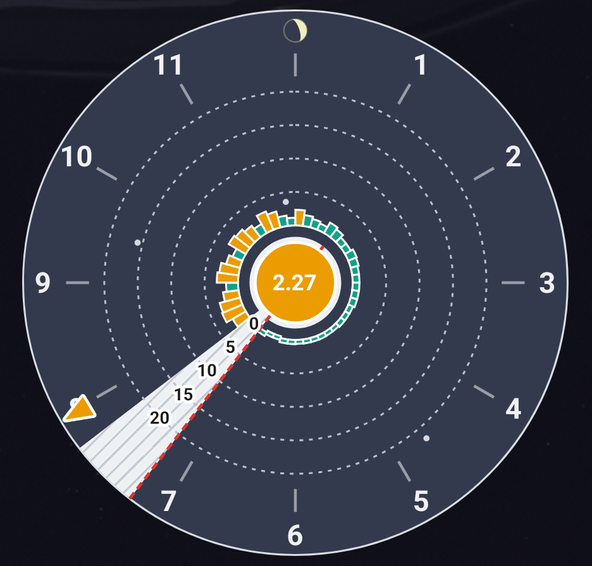
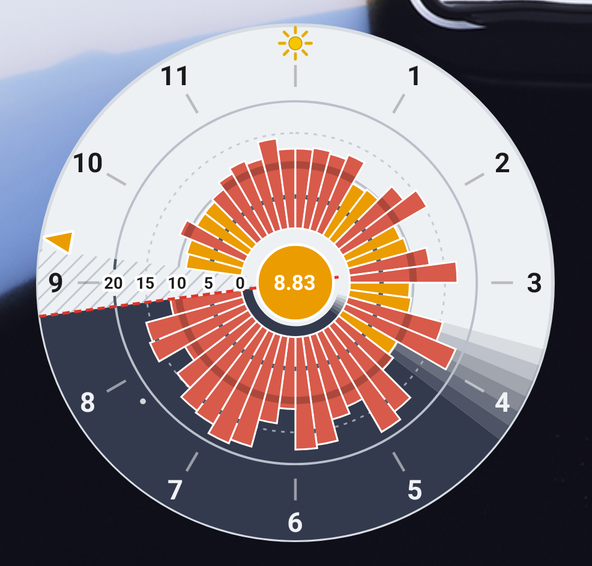
README: 0.15.0 screenshots, normal + very expensive day; reading guide covers hour marks and main rings

diff --git a/README.md b/README.md
@@ -12,9 +12,22 @@ lähdekoodi on erillisessä yksityisessä repossa.
 
 | Korkea widget | Matala widget |
 |---|---|
-| <img src="screenshots/tall.png" width="300" alt="Korkea widget: nykyinen ja kolme seuraavaa varttia kellon yläpuolella, siksak-nuoli kellon keskellä"> | <img src="screenshots/square.png" width="300" alt="Matala widget: nykyinen hinta kellon keskellä"> |
+| <img src="screenshots/tall.png" width="300" alt="Korkea widget tavallisena päivänä: nykyinen ja kolme seuraavaa varttia kellon yläpuolella, siksak-nuoli kellon keskellä, tuntinumerot näkyvissä"> | <img src="screenshots/square.png" width="300" alt="Matala widget tavallisena päivänä: nykyinen hinta kellon keskellä"> |
 
-*Kuvakaappaukset versiosta 0.13.0, 14.11.2026 klo 19.58.*
+*Tavallinen päivä: lauantai 28.11.2026 klo 9.20 (hinnat 7–19 snt).*
+
+**Hyvin kallis päivä** – torstai 26.11.2026, jolloin lähes kaikki vartit
+olivat yli 30 snt:
+
+| Korkea, klo 7.30 | Matala, klo 13.00 |
+|---|---|
+| <img src="screenshots/kallis-korkea.png" width="300" alt="Korkea widget kalliina päivänä: pitkät punaiset palkit hintoineen, tuntinumeroiden tilalla valkoiset tuntimerkit, 10 ja 20 sentin päärenkaat näkyvät palkkien yli"> | <img src="screenshots/kallis-matala.png" width="300" alt="Matala widget kalliina päivänä: tuntimerkit numeroiden tilalla, kuu klo 12 kohdalla, perjantain hinnat vielä julkaisematta"> |
+
+*Palkit peittävät tuntinumerot, joten niiden paikalla on valkoiset
+tuntimerkit. 10 ja 20 sentin päärenkaat erottuvat palkkien yli. Klo 13.00
+perjantain hintoja ei ollut vielä julkaistu (viivoitettu kiila).*
+
+*Kuvakaappaukset versiosta 0.15.0 (Android-emulaattori).*
 
 ## Lataus
 
@@ -91,9 +104,15 @@ ja laskee taas – nuoli kulkee *alas, ylös, alas, alas*. Tunnin lopussa hinta
 - Kello kattaa seuraavat 12 tuntia, ja reunan nuolenkärki näyttää
   nykyhetken – se on täytetty nykyisen vartin hintavärillä.
 - Jokainen palkki on yksi vartti: mitä pidempi palkki, sitä kalliimpi.
-  Katkoviivarenkaat ovat 0, 5, 10, 15 ja 20 snt/kWh. Korkeiden palkkien
-  kohdalla renkaat näkyvät palkkien välisissä raoissa pieninä tummina
-  viivoina.
+  Renkaat ovat 0, 5, 10, 15 ja 20 snt/kWh. **10 ja 20 sentin päärenkaat**
+  ovat yhtenäisiä viivoja, jotka näkyvät tummana varjona myös pitkien
+  palkkien yli ja jatkuvat viivoitetussa kiilassa – niistä näkee
+  yhdellä silmäyksellä, mitkä vartit ylittävät 10 tai 20 senttiä. Muut
+  renkaat ovat katkoviivoja.
+- **Tuntimerkit:** kun pitkät palkit peittävät tuntinumeron (noin 29 snt
+  ja yli), numeron tilalle tulee valkoinen pyöreäpäinen merkki – kuin
+  numeroton kellotaulu. Tunnit päätellään merkkien paikoista (12 ylhäällä,
+  3 oikealla jne.). Tavallisena päivänä numerot näkyvät kuten ennenkin.
 - Vähintään 30 snt/kWh:n palkkiin on kirjoitettu hinta kokonaisina sentteinä
   (paitsi nykyiseen varttiin, jonka päällä osoitin on – sen hinta näkyy
   hintarivissä tai kellon keskellä). Hyvin kalliina päivinä kello pienenee
@@ -182,9 +201,12 @@ in a separate private repository.
   the hour, like an aircraft's artificial horizon (level, or 15/25/35/45° for
   under 10 / 25 / 50 / over 50 %). See the picture above: at 21.30 on 11.11.
   it runs *down, up, down, down* on a level horizon.
-- **Reading the clock:** each bar is a quarter-hour, longer = pricier; dashed
-  rings at 0/5/10/15/20 c, shown as small dark marks in the gaps between tall
-  bars. Bars of 30 c or more have their price printed on them in whole cents
+- **Reading the clock:** each bar is a quarter-hour, longer = pricier; rings
+  at 0/5/10/15/20 c. The 10 and 20 c main rings are solid and show as a dark
+  shade across long bars and as a line in the hatched wedge; the others are
+  dashed. When long bars cover an hour number (about 29 c and up), a white
+  rounded hour mark replaces it, like a watch dial without numbers. See the
+  very expensive day (26.11.2026) screenshots at the top. Bars of 30 c or more have their price printed on them in whole cents
   (except the current quarter, under the hand). On very expensive days the
   clock shrinks a little so the longest bars fit.
 - **Colours:** blue = negative, green = cheap (0–2 c), orange = medium
